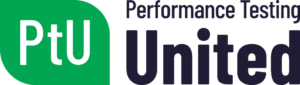
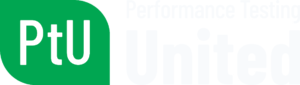
Add Performance Testing United to the supporters
Same treatment as the others: white background removed, cropped to its
visible bounds, and the near-black navy of "Performance Testing United"
recoloured to near-white so it does not vanish against the landing. The
green PtU badge is saturated, so it keeps its brand colour, and the white
lettering inside it was already correct for a dark background.

Credited without a link, like the rest.

Changed region(s): [[0.42, 0.3059, 1.0, 1.0], [0.42, 0.0, 1.0, 0.2824]]

diff --git a/src/components/SponsorSection.tsx b/src/components/SponsorSection.tsx
@@ -1,4 +1,5 @@
 import performance360LogoUrl from "../assets/360Performance.png";
+import ptuLogoUrl from "../assets/PTU.png";
 import relampoLogoUrl from "../assets/relampo-sponsor-logo.png";
 import sqaAdvisoryLogoUrl from "../assets/sqaadvisory.png";
 
@@ -19,6 +20,7 @@ const supporters: Supporter[] = [
   { name: "Relampo", logoUrl: relampoLogoUrl, href: "https://relampo.com/" },
   { name: "SQAadvisory", logoUrl: sqaAdvisoryLogoUrl },
   { name: "Performance 360 LATAM", logoUrl: performance360LogoUrl },
+  { name: "Performance Testing United", logoUrl: ptuLogoUrl },
 ];
 
 function SupporterCard({ supporter }: { supporter: Supporter }) {
